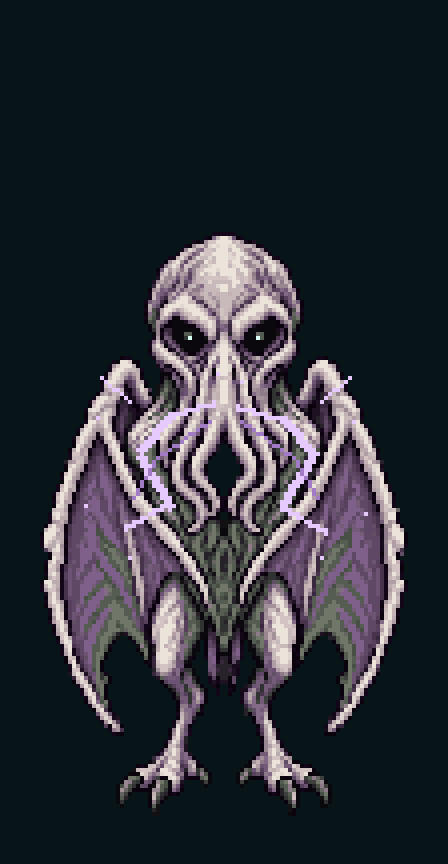
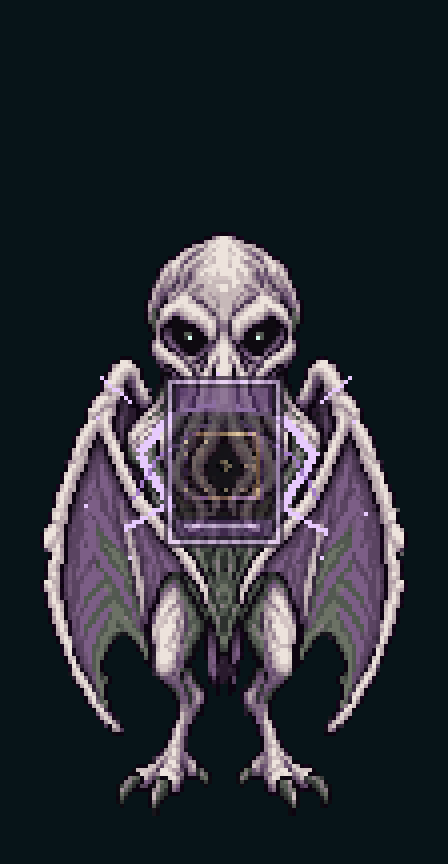
Redraw Byakhee wingbeat and show card cast in preview

Changed region(s): [[0.3438, 0.4375, 0.6562, 0.6562], [0.4688, 0.6875, 0.5, 0.7188]]

diff --git a/tools/build_byakhee_sheets.py b/tools/build_byakhee_sheets.py
@@ -135,34 +135,67 @@ def effect_frame(frame: int) -> Image.Image:
     return fx
 
 
+def sample_card() -> Image.Image:
+    """One representative outer card for the GIF; combat draws the real card."""
+    card = Image.new("RGBA", (30, 43), INK)
+    draw = ImageDraw.Draw(card)
+    draw.rectangle((1, 1, 28, 41), outline=PALE, width=1)
+    draw.rectangle((3, 3, 26, 8), fill=PLUM)
+    art = Image.open(ROOT / "art/pixel/cards/death.jpg").convert("RGB")
+    art = art.resize((24, 25), Image.Resampling.NEAREST)
+    card.paste(art, (3, 10))
+    draw.rectangle((3, 36, 26, 39), fill=PLUM)
+    draw.line((5, 37, 23, 37), fill=PALE)
+    return card
+
+
+def with_sample_card(frame: Image.Image, card: Image.Image, progress: float,
+                     opacity: float = 1.0) -> Image.Image:
+    result = frame.copy()
+    overlay = card.copy()
+    overlay.putalpha(overlay.getchannel("A").point(lambda a: int(a * opacity)))
+    center_y = round(HEIGHT * (0.40 + (0.21 - 0.40) * progress)) + TOP
+    result.alpha_composite(overlay, ((WIDTH - card.width) // 2,
+                                     center_y - card.height // 2))
+    return result
+
+
 def main() -> None:
     idle = native("idle.png")
-    asym = native("idle_asym.png")
-    up = native("wings_up.png")
+    mid = native("wing_mid.png")
+    peak = native("wing_peak.png")
     half = native("cast_half.png")
     full = native("cast_full.png")
-    palette = shared_palette([idle, asym, up, half, full])
-    idle, asym, up, half, full = [
-        palette_map(image, palette) for image in (idle, asym, up, half, full)
+    palette = shared_palette([idle, mid, peak, half, full])
+    idle, mid, peak, half, full = [
+        palette_map(image, palette) for image in (idle, mid, peak, half, full)
     ]
-    # Each pose is a complete redraw: the large moving wing shadows stay attached.
-    poses = [idle, asym, up, up, asym, idle,
-             idle, up, half, full, full, full, full, half, idle]
+    # Paired wings travel down -> level -> high -> level -> down in each beat.
+    poses = [idle, mid, peak, mid, idle, idle,
+             idle, mid, peak, mid, half, full, full, half, idle]
+    hover = [0, -1, -2, -1, 0, 0, 0, -1, -2, -1, 0, 0, 0, 0, 0]
     body = Image.new("RGBA", (WIDTH * FRAMES, HEIGHT))
     fx_sheet = Image.new("RGBA", (WIDTH * FRAMES, HEIGHT + TOP))
     contact = Image.new("RGBA", (WIDTH * FRAMES, HEIGHT + TOP), (7, 20, 24, 255))
     previews = []
+    card = sample_card()
     for frame, pose in enumerate(poses):
-        sprite = pose.copy()
+        sprite = Image.new("RGBA", (WIDTH, HEIGHT))
+        sprite.alpha_composite(pose, (0, hover[frame]))
         eyes = ImageDraw.Draw(sprite)
         for x in (47, 64):
-            eyes.point((x, 36), fill=EYE_FIRE if frame == FIRE_FRAME else EYE)
+            eyes.point((x, 36 + hover[frame]),
+                       fill=EYE_FIRE if frame == FIRE_FRAME else EYE)
         body.alpha_composite(sprite, (frame * WIDTH, 0))
         fx = effect_frame(frame)
         fx_sheet.alpha_composite(fx, (frame * WIDTH, 0))
         preview = Image.new("RGBA", (WIDTH, HEIGHT + TOP), (7, 20, 24, 255))
         preview.alpha_composite(sprite, (0, TOP))
         preview.alpha_composite(fx)
+        if frame >= FIRE_FRAME:
+            progress = min(1.0, (frame - FIRE_FRAME) / 2.0)
+            preview = with_sample_card(preview, card, progress,
+                                       0.65 if frame == FIRE_FRAME else 1.0)
         contact.alpha_composite(preview, (frame * WIDTH, 0))
         previews.append(preview)
     body.save(PIXELS / "byakhee_body_1.png")
@@ -173,7 +206,7 @@ def main() -> None:
     previews[FIRE_FRAME - 1].resize((448, 864), Image.Resampling.NEAREST).save(
         SOURCE / "byakhee_rift_preview.png")
     durations = [190, 170, 220, 180, 190, 210,
-                 120, 160, 170, 190, 220, 240, 180, 170, 200]
+                 120, 160, 170, 190, 220, 240, 180, 170, 800]
     gif = [frame.resize((336, 648), Image.Resampling.NEAREST).convert("RGB")
            for frame in previews]
     gif[0].save(SOURCE / "byakhee_preview.gif", save_all=True,
